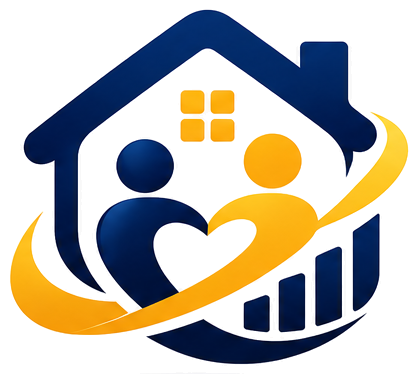
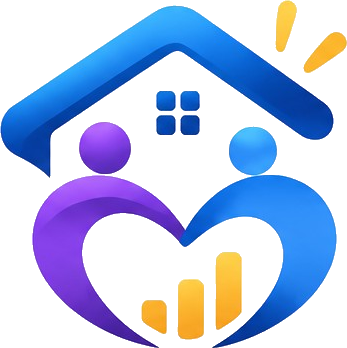
feat(brand): identidad v2 — nuevo isotipo y logotipo
- Isotipo extraído de la nueva marca (fondo transparente, válido en claro y oscuro)
- Icono, icono adaptativo, monocromo, splash, favicon y notificación regenerados
- Paleta: marino #1F2C66, azul claro #60A5FA, morado #8B5CF6, dorado #FBBF24
- Logotipo Op/To/gether con subrayado dorado; deuda pasa a rosa para no confundirse con la marca

diff --git a/src/theme/tokens.ts b/src/theme/tokens.ts
@@ -1,6 +1,7 @@
 /**
  * OpTogether Design System — tokens.
- * Regla 60/30/10: superficies blancas (60), azul marino de marca (30), amarillo como acento (10).
+ * Identidad v2: Azul marino #1F2C66 · Azul claro #60A5FA · Morado #8B5CF6 · Dorado #FBBF24.
+ * Regla 60/30/10: superficies blancas (60), azules/morado de marca (30), dorado como acento (10).
  * Ningún componente debe usar valores literales de color, radio o espaciado: todo sale de aquí.
  */
 
@@ -15,10 +16,22 @@ export const palette = {
   navy100: '#E6E9F6',
   navy50: '#F3F5FB',
 
-  yellow600: '#E0A800',
-  yellow500: '#FFCB2F', // acento
-  yellow300: '#FFE08A',
-  yellow100: '#FFF6D6',
+  yellow600: '#D99A06',
+  yellow500: '#FBBF24', // dorado (acento)
+  yellow300: '#FDE08A',
+  yellow100: '#FEF5D7',
+
+  sky600: '#2563EB',
+  sky500: '#3B82F6',
+  sky400: '#60A5FA', // azul claro (marca)
+  sky100: '#E3EEFE',
+
+  purple700: '#6D28D9',
+  purple500: '#8B5CF6', // morado (marca)
+  purple100: '#EFE9FE',
+
+  rose700: '#BE185D',
+  rose100: '#FCE7F1',
 
   green700: '#0F7A4D',
   green600: '#14935D',
@@ -35,8 +48,6 @@ export const palette = {
   teal600: '#0E7C86',
   teal100: '#DDF3F4',
 
-  violet600: '#6346C9',
-  violet100: '#ECE7FB',
 
   gray950: '#0B0D14',
   gray900: '#13161F',
@@ -74,6 +85,9 @@ export type ThemeColors = {
   onBrand: string;
   accent: string;
   accentSoft: string;
+  brandBlue: string;
+  brandPurple: string;
+  brandPurpleSoft: string;
   onAccent: string;
   positive: string;
   positiveSoft: string;
@@ -118,6 +132,9 @@ export const lightColors: ThemeColors = {
   onBrand: palette.white,
   accent: palette.yellow500,
   accentSoft: palette.yellow100,
+  brandBlue: palette.sky600,
+  brandPurple: palette.purple500,
+  brandPurpleSoft: palette.purple100,
   onAccent: palette.navy950,
   positive: palette.green600,
   positiveSoft: palette.green100,
@@ -131,12 +148,12 @@ export const lightColors: ThemeColors = {
   excess: palette.red600,
   savings: palette.teal600,
   savingsSoft: palette.teal100,
-  debt: palette.violet600,
-  debtSoft: palette.violet100,
+  debt: palette.rose700,
+  debtSoft: palette.rose100,
   fund: palette.yellow600,
   fundSoft: palette.yellow100,
-  contribution: palette.navy600,
-  contributionSoft: palette.navy100,
+  contribution: palette.sky600,
+  contributionSoft: palette.sky100,
   overlay: 'rgba(14,21,56,0.45)',
   skeleton: palette.gray100,
   tabBar: palette.white,
@@ -161,6 +178,9 @@ export const darkColors: ThemeColors = {
   onBrand: palette.white,
   accent: palette.yellow500,
   accentSoft: '#3A3216',
+  brandBlue: palette.sky400,
+  brandPurple: '#A78BFA',
+  brandPurpleSoft: '#2A2147',
   onAccent: palette.navy950,
   positive: palette.green500,
   positiveSoft: '#11301F',
@@ -174,12 +194,12 @@ export const darkColors: ThemeColors = {
   excess: '#F2564B',
   savings: '#2EB8C4',
   savingsSoft: '#0F2F33',
-  debt: '#9C84F0',
-  debtSoft: '#251C42',
+  debt: '#F472B6',
+  debtSoft: '#3A1528',
   fund: palette.yellow500,
   fundSoft: '#3A3216',
-  contribution: '#8C9BE6',
-  contributionSoft: '#1E2547',
+  contribution: palette.sky400,
+  contributionSoft: '#152A4A',
   overlay: 'rgba(0,0,0,0.6)',
   skeleton: palette.gray800,
   tabBar: palette.gray900,

diff --git a/src/components/brand/Logo.tsx b/src/components/brand/Logo.tsx
@@ -1,29 +1,31 @@
 import React from 'react';
 import { Image, View } from 'react-native';
 import { useTheme } from '../../theme/ThemeProvider';
-import { radius, space } from '../../theme/tokens';
+import { space } from '../../theme/tokens';
 import { Text } from '../ui/Text';
 
+/** Isotipo (casa, pareja y corazón con barras). Fondo transparente: funciona en claro y oscuro. */
 export function Isotype({ size = 72 }: { size?: number }) {
-  const { dark } = useTheme();
-  const img = <Image source={require('../../../assets/brand/isotype.png')} style={{ width: size, height: size * 0.9 }} resizeMode="contain" accessibilityLabel="OpTogether" />;
-  if (!dark) return img;
   return (
-    <View style={{ backgroundColor: '#FFFFFF', borderRadius: radius.lg, padding: size * 0.12 }}>{img}</View>
+    <Image source={require('../../../assets/brand/isotype.png')} style={{ width: size, height: size }} resizeMode="contain" accessibilityLabel="OpTogether" />
   );
 }
 
+/** Logotipo: "Op" marino · "To" azul · "gether" morado, con subrayado dorado. */
 export function Wordmark({ size = 'lg', tagline = true }: { size?: 'md' | 'lg'; tagline?: boolean }) {
+  const { colors, dark } = useTheme();
+  const v = size === 'lg' ? 'display' : 'h1';
   return (
-    <View style={{ alignItems: 'center', gap: space[1] }}>
-      <Text variant={size === 'lg' ? 'display' : 'h1'} color="brand" style={{ letterSpacing: -1 }}>
-        Op<Text variant={size === 'lg' ? 'display' : 'h1'} color="text" style={{ letterSpacing: -1 }}>Together</Text>
+    <View style={{ alignItems: 'center', gap: space[1] }} accessible accessibilityLabel="OpTogether. Construyendo nuestro futuro, juntos">
+      <Text variant={v} style={{ letterSpacing: -1 }} color={dark ? '#FFFFFF' : colors.brand}>
+        Op
+        <Text variant={v} color={colors.brandBlue} style={{ letterSpacing: -1 }}>To</Text>
+        <Text variant={v} color={colors.brandPurple} style={{ letterSpacing: -1 }}>gether</Text>
       </Text>
       {tagline && (
-        <View style={{ flexDirection: 'row', alignItems: 'center', gap: space[2] }}>
-          <View style={{ width: 16, height: 2, borderRadius: 1, backgroundColor: '#FFCB2F' }} />
-          <Text variant="caption" color="textSecondary">Construyendo nuestro futuro, juntos</Text>
-          <View style={{ width: 16, height: 2, borderRadius: 1, backgroundColor: '#FFCB2F' }} />
+        <View style={{ alignItems: 'center', gap: 4 }}>
+          <Text variant="caption" color="textSecondary" style={{ letterSpacing: 0.6 }}>Construyendo nuestro futuro, juntos</Text>
+          <View style={{ width: 90, height: 3, borderRadius: 2, backgroundColor: colors.accent, alignSelf: 'flex-end', transform: [{ rotate: '-2deg' }] }} />
         </View>
       )}
     </View>

diff --git a/src/config/initialSetup.ts b/src/config/initialSetup.ts
@@ -17,8 +17,8 @@ export type SetupCategory = {
 };
 
 export const INITIAL_MEMBERS = [
-  { name: 'Eudys', income: 42550, color: '#1F2C66' },
-  { name: 'Mei', income: 16180, color: '#FFCB2F' },
+  { name: 'Eudys', income: 42550, color: '#2563EB' },
+  { name: 'Mei', income: 16180, color: '#8B5CF6' },
 ];
 
 /** % asignado a Mei; Eudys = 100 - pct. */
@@ -26,17 +26,17 @@ export const INITIAL_CATEGORIES: SetupCategory[] = [
   { name: 'Alquiler', icon: 'home', color: '#1F2C66', amount: 15000, partnerPct: 25, is_variable: false, kind: 'expense', bill: { kind: 'rent', due_day: 1, amount_type: 'fixed' } },
   { name: 'Supermercado', icon: 'cart', color: '#14935D', amount: 12000, partnerPct: 25, is_variable: true, kind: 'expense', bill: null },
   { name: 'Internet', icon: 'wifi', color: '#3D4E99', amount: 1500, partnerPct: 25, is_variable: false, kind: 'expense', bill: { kind: 'internet', due_day: 15, amount_type: 'fixed' } },
-  { name: 'Electricidad', icon: 'zap', color: '#E0A800', amount: 1000, partnerPct: 25, is_variable: true, kind: 'expense', bill: { kind: 'electricity', due_day: 20, amount_type: 'variable' } },
+  { name: 'Electricidad', icon: 'zap', color: '#D99A06', amount: 1000, partnerPct: 25, is_variable: true, kind: 'expense', bill: { kind: 'electricity', due_day: 20, amount_type: 'variable' } },
   { name: 'Gas', icon: 'flame', color: '#C2570C', amount: 1000, partnerPct: 25, is_variable: true, kind: 'expense', bill: { kind: 'gas', due_day: 25, amount_type: 'variable' } },
   { name: 'Caja chica', icon: 'wallet', color: '#0E7C86', amount: 4000, partnerPct: 50, is_variable: true, kind: 'fund', fund_key: 'petty' },
-  { name: 'Salidas', icon: 'party', color: '#6346C9', amount: 3000, partnerPct: 50, is_variable: true, kind: 'fund', fund_key: 'outings' },
+  { name: 'Salidas', icon: 'party', color: '#8B5CF6', amount: 3000, partnerPct: 50, is_variable: true, kind: 'fund', fund_key: 'outings' },
 ];
 
 export const INITIAL_SAVINGS = { name: 'Ahorro conjunto', partnerAmount: 1000, otherAmount: 1000 };
 
 export const INITIAL_FUNDS = [
   { key: 'petty', name: 'Caja chica', kind: 'petty_cash', icon: 'wallet', color: '#0E7C86' },
-  { key: 'outings', name: 'Fondo de salidas', kind: 'outings', icon: 'party', color: '#6346C9' },
+  { key: 'outings', name: 'Fondo de salidas', kind: 'outings', icon: 'party', color: '#8B5CF6' },
   { key: 'common', name: 'Fondo común', kind: 'common', icon: 'users', color: '#1F2C66' },
   { key: 'emergency', name: 'Fondo de emergencia', kind: 'emergency', icon: 'shield', color: '#D92D20' },
 ];

diff --git a/src/lib/export.ts b/src/lib/export.ts
@@ -44,8 +44,8 @@ export async function exportPDF(opts: { title: string; subtitle: string; kpis: {
   const html = `<!DOCTYPE html><html><head><meta charset="utf-8"/><style>
     *{font-family:-apple-system,Roboto,Helvetica,Arial,sans-serif;color:#0E1538}
     body{padding:28px}
-    .brand{display:flex;justify-content:space-between;align-items:center;border-bottom:3px solid #FFCB2F;padding-bottom:12px;margin-bottom:18px}
-    .logo{font-size:22px;font-weight:800;color:#1F2C66}.logo span{color:#0E1538}
+    .brand{display:flex;justify-content:space-between;align-items:center;border-bottom:3px solid #FBBF24;padding-bottom:12px;margin-bottom:18px}
+    .logo{font-size:22px;font-weight:800;color:#1F2C66}.logo .to{color:#2563EB}.logo .g{color:#8B5CF6}
     h1{font-size:20px;margin:0}.sub{color:#5A6175;font-size:12px}
     .kpis{display:flex;gap:10px;margin:16px 0}.kpi{flex:1;background:#F3F5FB;border-radius:10px;padding:10px}
     .kpi b{display:block;font-size:16px;color:#1F2C66}.kpi small{color:#5A6175;font-size:11px}
@@ -57,7 +57,7 @@ export async function exportPDF(opts: { title: string; subtitle: string; kpis: {
     .num{text-align:right;font-variant-numeric:tabular-nums}
     footer{margin-top:24px;color:#7A8194;font-size:10px}
   </style></head><body>
-  <div class="brand"><div class="logo">Op<span>Together</span></div><div class="sub">Generado ${esc(new Date().toLocaleString('es-DO'))}</div></div>
+  <div class="brand"><div class="logo">Op<span class="to">To</span><span class="g">gether</span></div><div class="sub">Generado ${esc(new Date().toLocaleString('es-DO'))}</div></div>
   <h1>${esc(opts.title)}</h1><div class="sub">${esc(opts.subtitle)}</div>
   <div class="kpis">${opts.kpis.map((k) => `<div class="kpi"><small>${esc(k.label)}</small><b>${esc(formatMoney(k.value))}</b></div>`).join('')}</div>
   ${opts.sheets.map((s) => `<h2>${esc(s.name)}</h2><table><thead><tr>${s.headers.map((h) => `<th>${esc(h)}</th>`).join('')}</tr></thead><tbody>${s.rows.map((r) => `<tr>${r.map((c) => `<td class="${typeof c === 'number' ? 'num' : ''}">${esc(typeof c === 'number' ? formatMoney(c) : c)}</td>`).join('')}</tr>`).join('')}</tbody></table>`).join('')}

diff --git a/src/components/charts/Charts.tsx b/src/components/charts/Charts.tsx
@@ -6,9 +6,9 @@ import { fonts, space } from '../../theme/tokens';
 import { Text } from '../ui/Text';
 import { formatMoney } from '../../lib/money';
 
-/** Paleta categórica derivada de la marca (validada para contraste en claro/oscuro). */
-export const CHART_COLORS = ['#1F2C66', '#FFCB2F', '#0E7C86', '#6346C9', '#14935D', '#C2570C', '#7C88C2', '#D92D20', '#3D4E99', '#E0A800'];
-export const CHART_COLORS_DARK = ['#8C9BE6', '#FFCB2F', '#2EB8C4', '#9C84F0', '#1DB173', '#F08A3E', '#C9CFEA', '#F2564B', '#5C6FD1', '#FFE08A'];
+/** Paleta categórica derivada de la identidad v2 (marino, morado, azul claro, dorado + apoyo). */
+export const CHART_COLORS = ['#1F2C66', '#8B5CF6', '#60A5FA', '#FBBF24', '#0E7C86', '#14935D', '#C2570C', '#BE185D', '#2563EB', '#7C88C2'];
+export const CHART_COLORS_DARK = ['#8C9BE6', '#A78BFA', '#60A5FA', '#FBBF24', '#2EB8C4', '#1DB173', '#F08A3E', '#F472B6', '#3B82F6', '#C9CFEA'];
 
 export function useChartColors() {
   const { dark } = useTheme();

diff --git a/src/app/(app)/(tabs)/index.tsx b/src/app/(app)/(tabs)/index.tsx
@@ -216,7 +216,7 @@ function HeroStat({ label, value, count, warn }: { label: string; value?: number
         <Money value={value} variant="amountS" color="onBrand" compact />
       ) : (
         <View style={{ flexDirection: 'row', alignItems: 'center', gap: 4 }}>
-          {warn && <Icon name="alert" size={14} color="#FFCB2F" />}
+          {warn && <Icon name="alert" size={14} color="#FBBF24" />}
           <Text variant="amountS" color={warn ? 'accent' : 'onBrand'}>{count}</Text>
         </View>
       )}

diff --git a/src/lib/notifications.ts b/src/lib/notifications.ts
@@ -25,7 +25,7 @@ export async function ensureChannel() {
       // eslint-disable-next-line import/namespace -- enum re-exportado (falso positivo)
       importance: Notifications.AndroidImportance.HIGH,
       vibrationPattern: [0, 200, 120, 200],
-      lightColor: '#FFCB2F',
+      lightColor: '#FBBF24',
     });
   }
 }

diff --git a/docs/DESIGN.md b/docs/DESIGN.md
@@ -2,12 +2,23 @@
 
 Tokens en `src/theme/tokens.ts`; ningún componente usa colores, radios o espaciados literales.
 
+## Identidad (v2)
+Isotipo: casa + pareja formando un corazón con barras de crecimiento (`assets/brand/isotype.png`,
+extraído de `assets/brand/branding-source-v2.jpg`). Logotipo: **Op** marino · **To** azul · **gether** morado,
+lema *“Construyendo nuestro futuro, juntos”* con subrayado dorado.
+
+| Color | Hex | Uso |
+|---|---|---|
+| Azul marino | `#1F2C66` | Marca principal: navegación, encabezado del inicio, botones primarios |
+| Azul claro | `#60A5FA` (`#2563EB` en texto) | Marca secundaria, aportaciones, miembro Eudys |
+| Morado | `#8B5CF6` | Marca secundaria, logotipo, miembro Mei |
+| Dorado | `#FBBF24` | Acento (≈10 %): botón de registro rápido, progreso, no leídos |
+
 ## Color (60 / 30 / 10)
-- **60 % blanco / superficies** (`surface`, `background`).
-- **30 % azul marino de marca `#1F2C66`** (`brand`): navegación, encabezado del inicio, acciones primarias.
-- **10 % amarillo `#FFCB2F`** (`accent`): botón de registro rápido, progreso del presupuesto en el inicio, indicadores no leídos.
-- Semánticos financieros, uno por concepto: presupuesto `budget`, gasto `spent`, disponible `available` (verde),
-  exceso `excess` (rojo), ahorro `savings` (teal), deuda `debt` (violeta), fondos `fund` (ámbar), aportaciones `contribution`.
+- **60 % blanco / superficies**, **30 % azules y morado de marca**, **10 % dorado**.
+- Semánticos financieros, uno por concepto y nunca un color de marca: presupuesto `budget` (marino),
+  gasto `spent`, disponible `available` (verde), exceso `excess` (rojo), ahorro `savings` (teal),
+  deuda `debt` (rosa oscuro), fondos `fund` (ámbar), aportaciones `contribution` (azul).
 - Tema oscuro completo con los mismos roles.
 
 ## Tipografía
